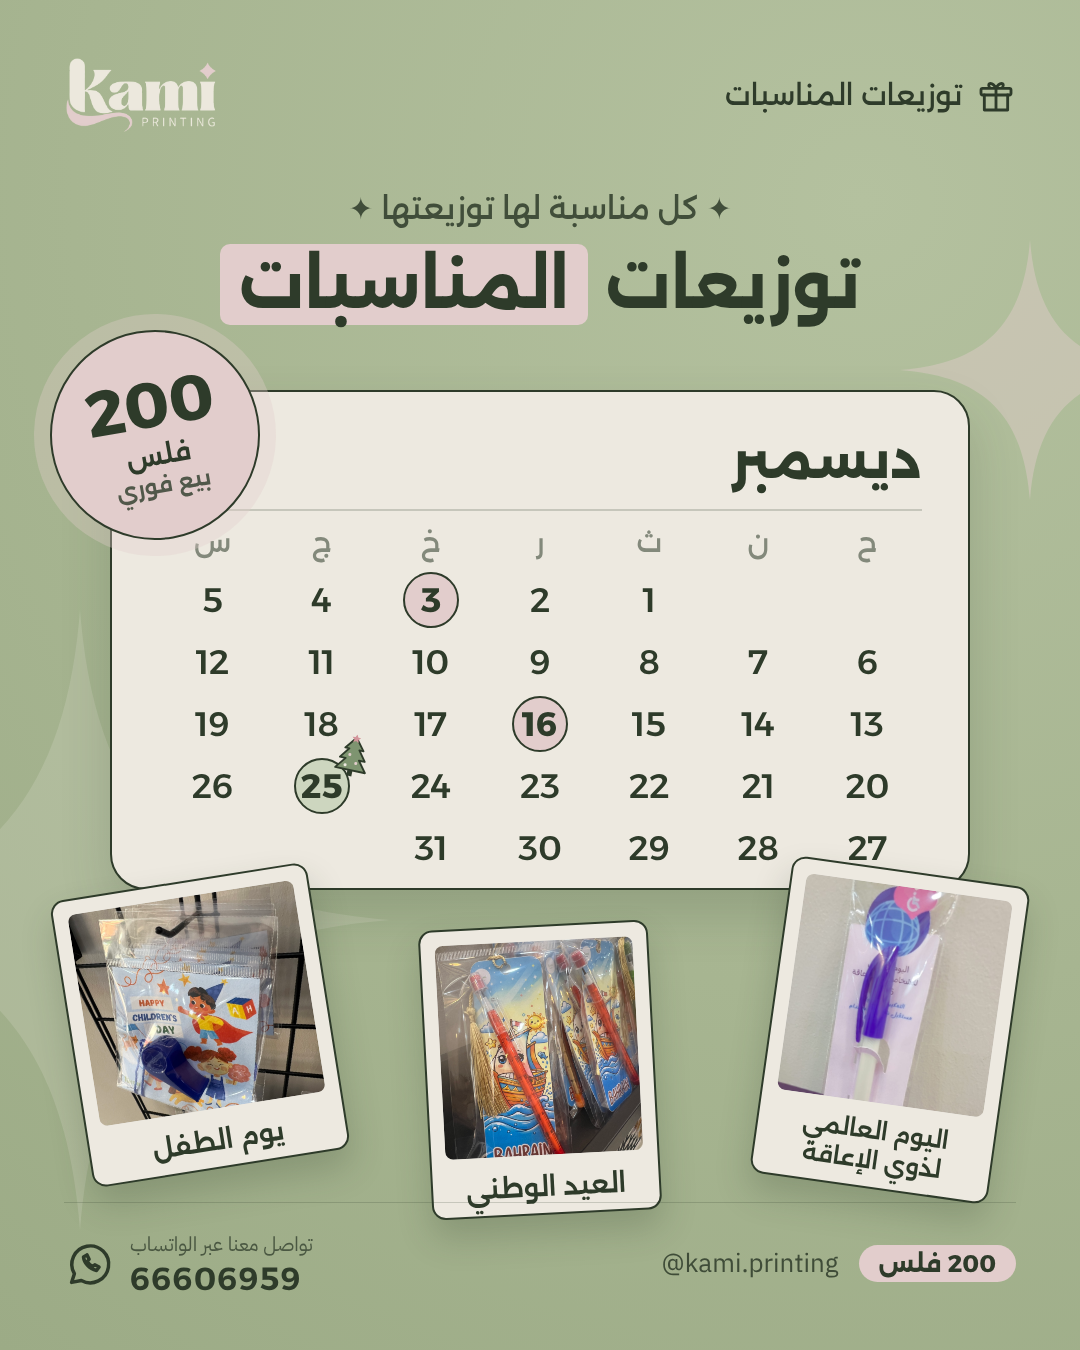
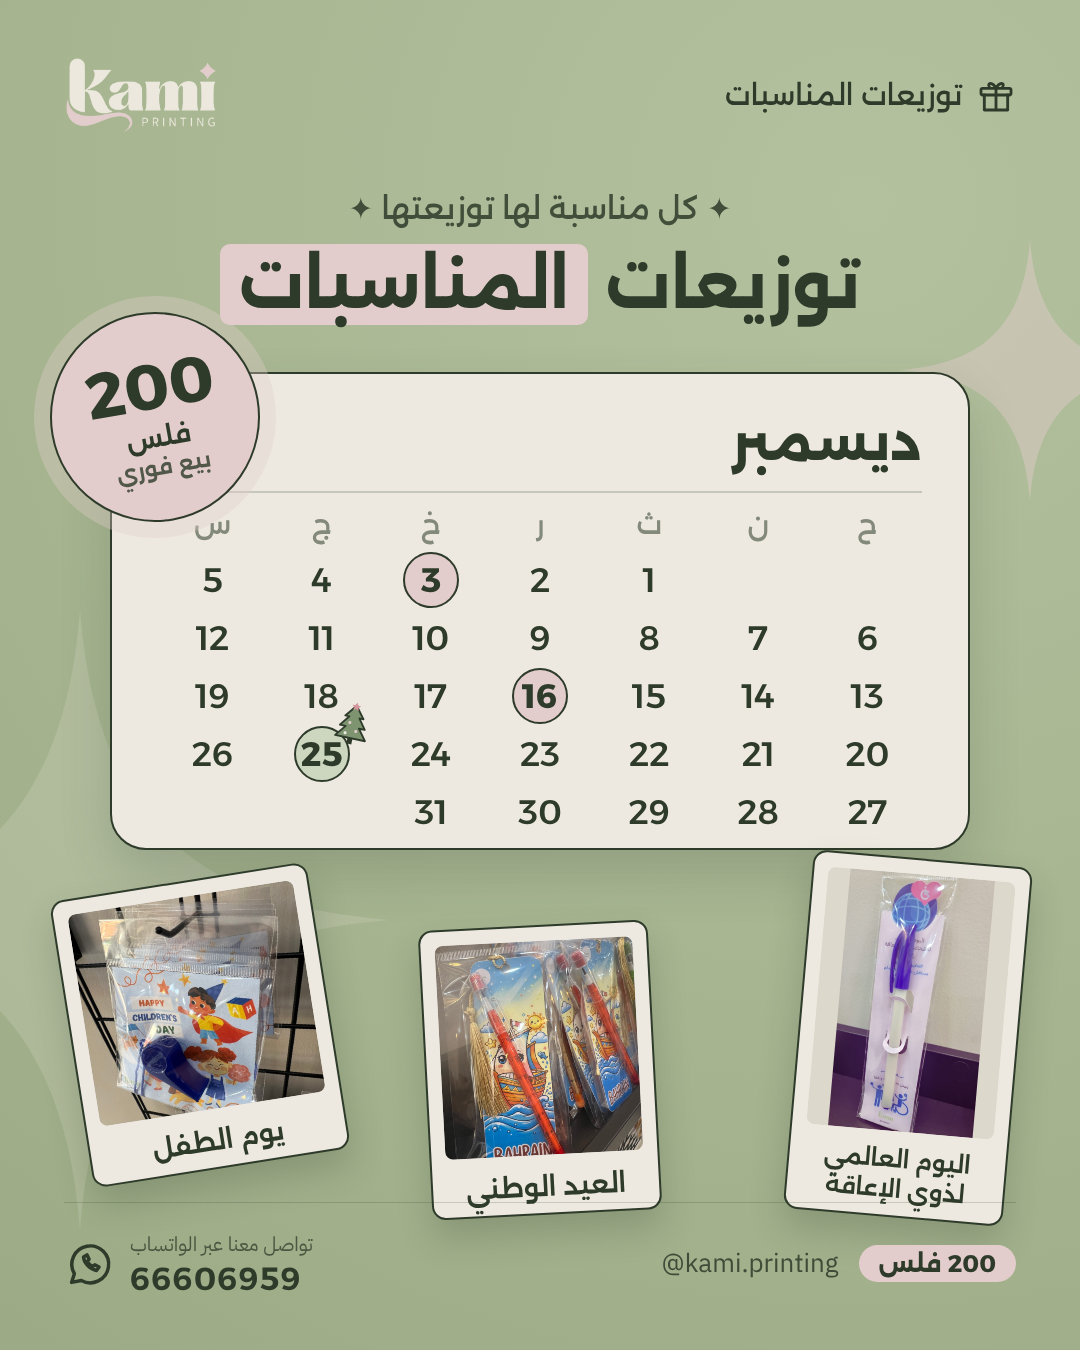
Occasions post: show full disability day giveaway photo
Claude-Session: https://claude.ai/code/session_01EDga3Fd5srF93fsPAXnMfC

Changed region(s): [[0.0917, 0.3733, 0.9778, 0.9333], [0.0306, 0.2178, 0.9167, 0.5911]]

diff --git a/templates/giveaway-posts.html b/templates/giveaway-posts.html
@@ -63,17 +63,17 @@ h2{font-family:Alexandria;font-weight:700;font-size:66px;line-height:1.45;margin
   <header><img src="../brand/logo-en-cream.png"><div class="chip"><svg><use href="#gift"/></svg><span>توزيعات المناسبات</span></div></header>
   <div class="top"><div class="kicker">✦ كل مناسبة لها توزيعتها ✦</div><h2>توزيعات <span class="hl">المناسبات</span></h2></div>
 
-  <div style="position:absolute;top:390px;left:110px;right:110px;height:500px;background:var(--cream);border:2px solid var(--forest);border-radius:36px;padding:36px 46px;box-shadow:0 24px 50px rgba(46,59,42,.18)">
+  <div style="position:absolute;top:372px;left:110px;right:110px;height:478px;background:var(--cream);border:2px solid var(--forest);border-radius:36px;padding:36px 46px;box-shadow:0 24px 50px rgba(46,59,42,.18)">
     <div style="display:flex;justify-content:space-between;align-items:center;font-family:Alexandria">
       <div style="font-size:52px;font-weight:700">ديسمبر</div><div style="font-size:30px;font-weight:500;opacity:.6">2026</div>
     </div>
     <div style="height:1.5px;background:var(--line);margin:18px 0 14px"></div>
     <div id="grid" style="display:grid;grid-template-columns:repeat(7,1fr);row-gap:8px;text-align:center;font-family:Alexandria;font-size:34px;font-weight:500"></div>
   </div>
-  <div class="badge" style="top:330px;left:50px;transform:rotate(-10deg)"><b>200</b><span>فلس</span><span style="font-size:22px;opacity:.8;margin-top:0">بيع فوري</span></div>
+  <div class="badge" style="top:312px;left:50px;transform:rotate(-10deg)"><b>200</b><span>فلس</span><span style="font-size:22px;opacity:.8;margin-top:0">بيع فوري</span></div>
 
   <div class="pol" style="width:260px;height:290px;top:880px;left:70px;transform:rotate(-9deg);z-index:6"><div class="img" style="background-image:url(photos/giveaways/children-day.jpg);background-position:45% 52%"></div><div class="cap">يوم الطفل</div></div>
-  <div class="pol" style="width:240px;height:320px;top:870px;right:70px;transform:rotate(8deg);z-index:6;padding-bottom:84px"><div class="img" style="background-image:url(photos/giveaways/pen-disability.jpg);background-position:50% 8%"></div><div class="cap" style="font-size:23px;line-height:1.3">اليوم العالمي<br>لذوي الإعاقة</div></div>
+  <div class="pol" style="width:220px;height:360px;top:858px;right:62px;transform:rotate(5deg);z-index:6;padding-bottom:84px"><div class="img" style="background-image:url(photos/giveaways/pen-disability.jpg);background-position:center;background-size:contain;background-color:#DDD8CC"></div><div class="cap" style="font-size:23px;line-height:1.3">اليوم العالمي<br>لذوي الإعاقة</div></div>
   <div class="pol" style="width:230px;height:290px;top:925px;left:425px;transform:rotate(-3deg);z-index:7"><div class="img" style="background-image:url(photos/giveaways/national-day.jpg);background-position:38% 50%"></div><div class="cap">العيد الوطني</div></div>
 
   <footer><div class="fw"><svg class="fwi"><use href="#wa"/></svg><div><small>تواصل معنا عبر الواتساب</small><b>66606959</b></div></div>
@@ -85,7 +85,7 @@ const g=document.getElementById('grid');
 ['ح','ن','ث','ر','خ','ج','س'].forEach(d=>{const e=document.createElement('div');e.textContent=d;e.style.cssText='opacity:.55;font-size:28px;padding-bottom:6px';g.appendChild(e)});
 const f=new Date(2026,11,1).getDay();for(let i=0;i<f;i++)g.appendChild(document.createElement('div'));
 const mk={3:1,16:1};
-for(let d=1;d<=31;d++){const e=document.createElement('div');e.style.cssText='height:54px;display:flex;align-items:center;justify-content:center';
+for(let d=1;d<=31;d++){const e=document.createElement('div');e.style.cssText='height:50px;display:flex;align-items:center;justify-content:center';
  const tree=`<svg viewBox="0 0 40 52" style="position:absolute;width:34px;height:44px;right:-22px;top:-26px;transform:rotate(12deg)"><path d="M20 4 L31 18 H26 L35 30 H28 L38 43 H2 L12 30 H5 L14 18 H9 Z" fill="#7E9470" stroke="#2E3B2A" stroke-width="2.2" stroke-linejoin="round"/><rect x="17" y="43" width="6" height="7" fill="#2E3B2A"/><path d="M20 0 l1.6 3.4 3.6.4-2.7 2.4.8 3.6-3.3-1.9-3.3 1.9.8-3.6-2.7-2.4 3.6-.4z" fill="#D3959B"/><circle cx="16" cy="25" r="1.8" fill="#E2CDCC"/><circle cx="25" cy="34" r="1.8" fill="#E2CDCC"/><circle cx="13" cy="38" r="1.8" fill="#EDE9E0"/></svg>`;
  if(d==25){e.style.position='relative';e.innerHTML=`<span style="position:relative;width:56px;height:56px;border-radius:50%;background:#CDD6BF;border:2px solid var(--forest);display:flex;align-items:center;justify-content:center;font-weight:700">25${tree}</span>`;g.appendChild(e);continue}
  e.innerHTML=mk[d]?`<span style="width:56px;height:56px;border-radius:50%;background:var(--blush);border:2px solid var(--forest);display:flex;align-items:center;justify-content:center;font-weight:700">${d}</span>`:d;g.appendChild(e)}
